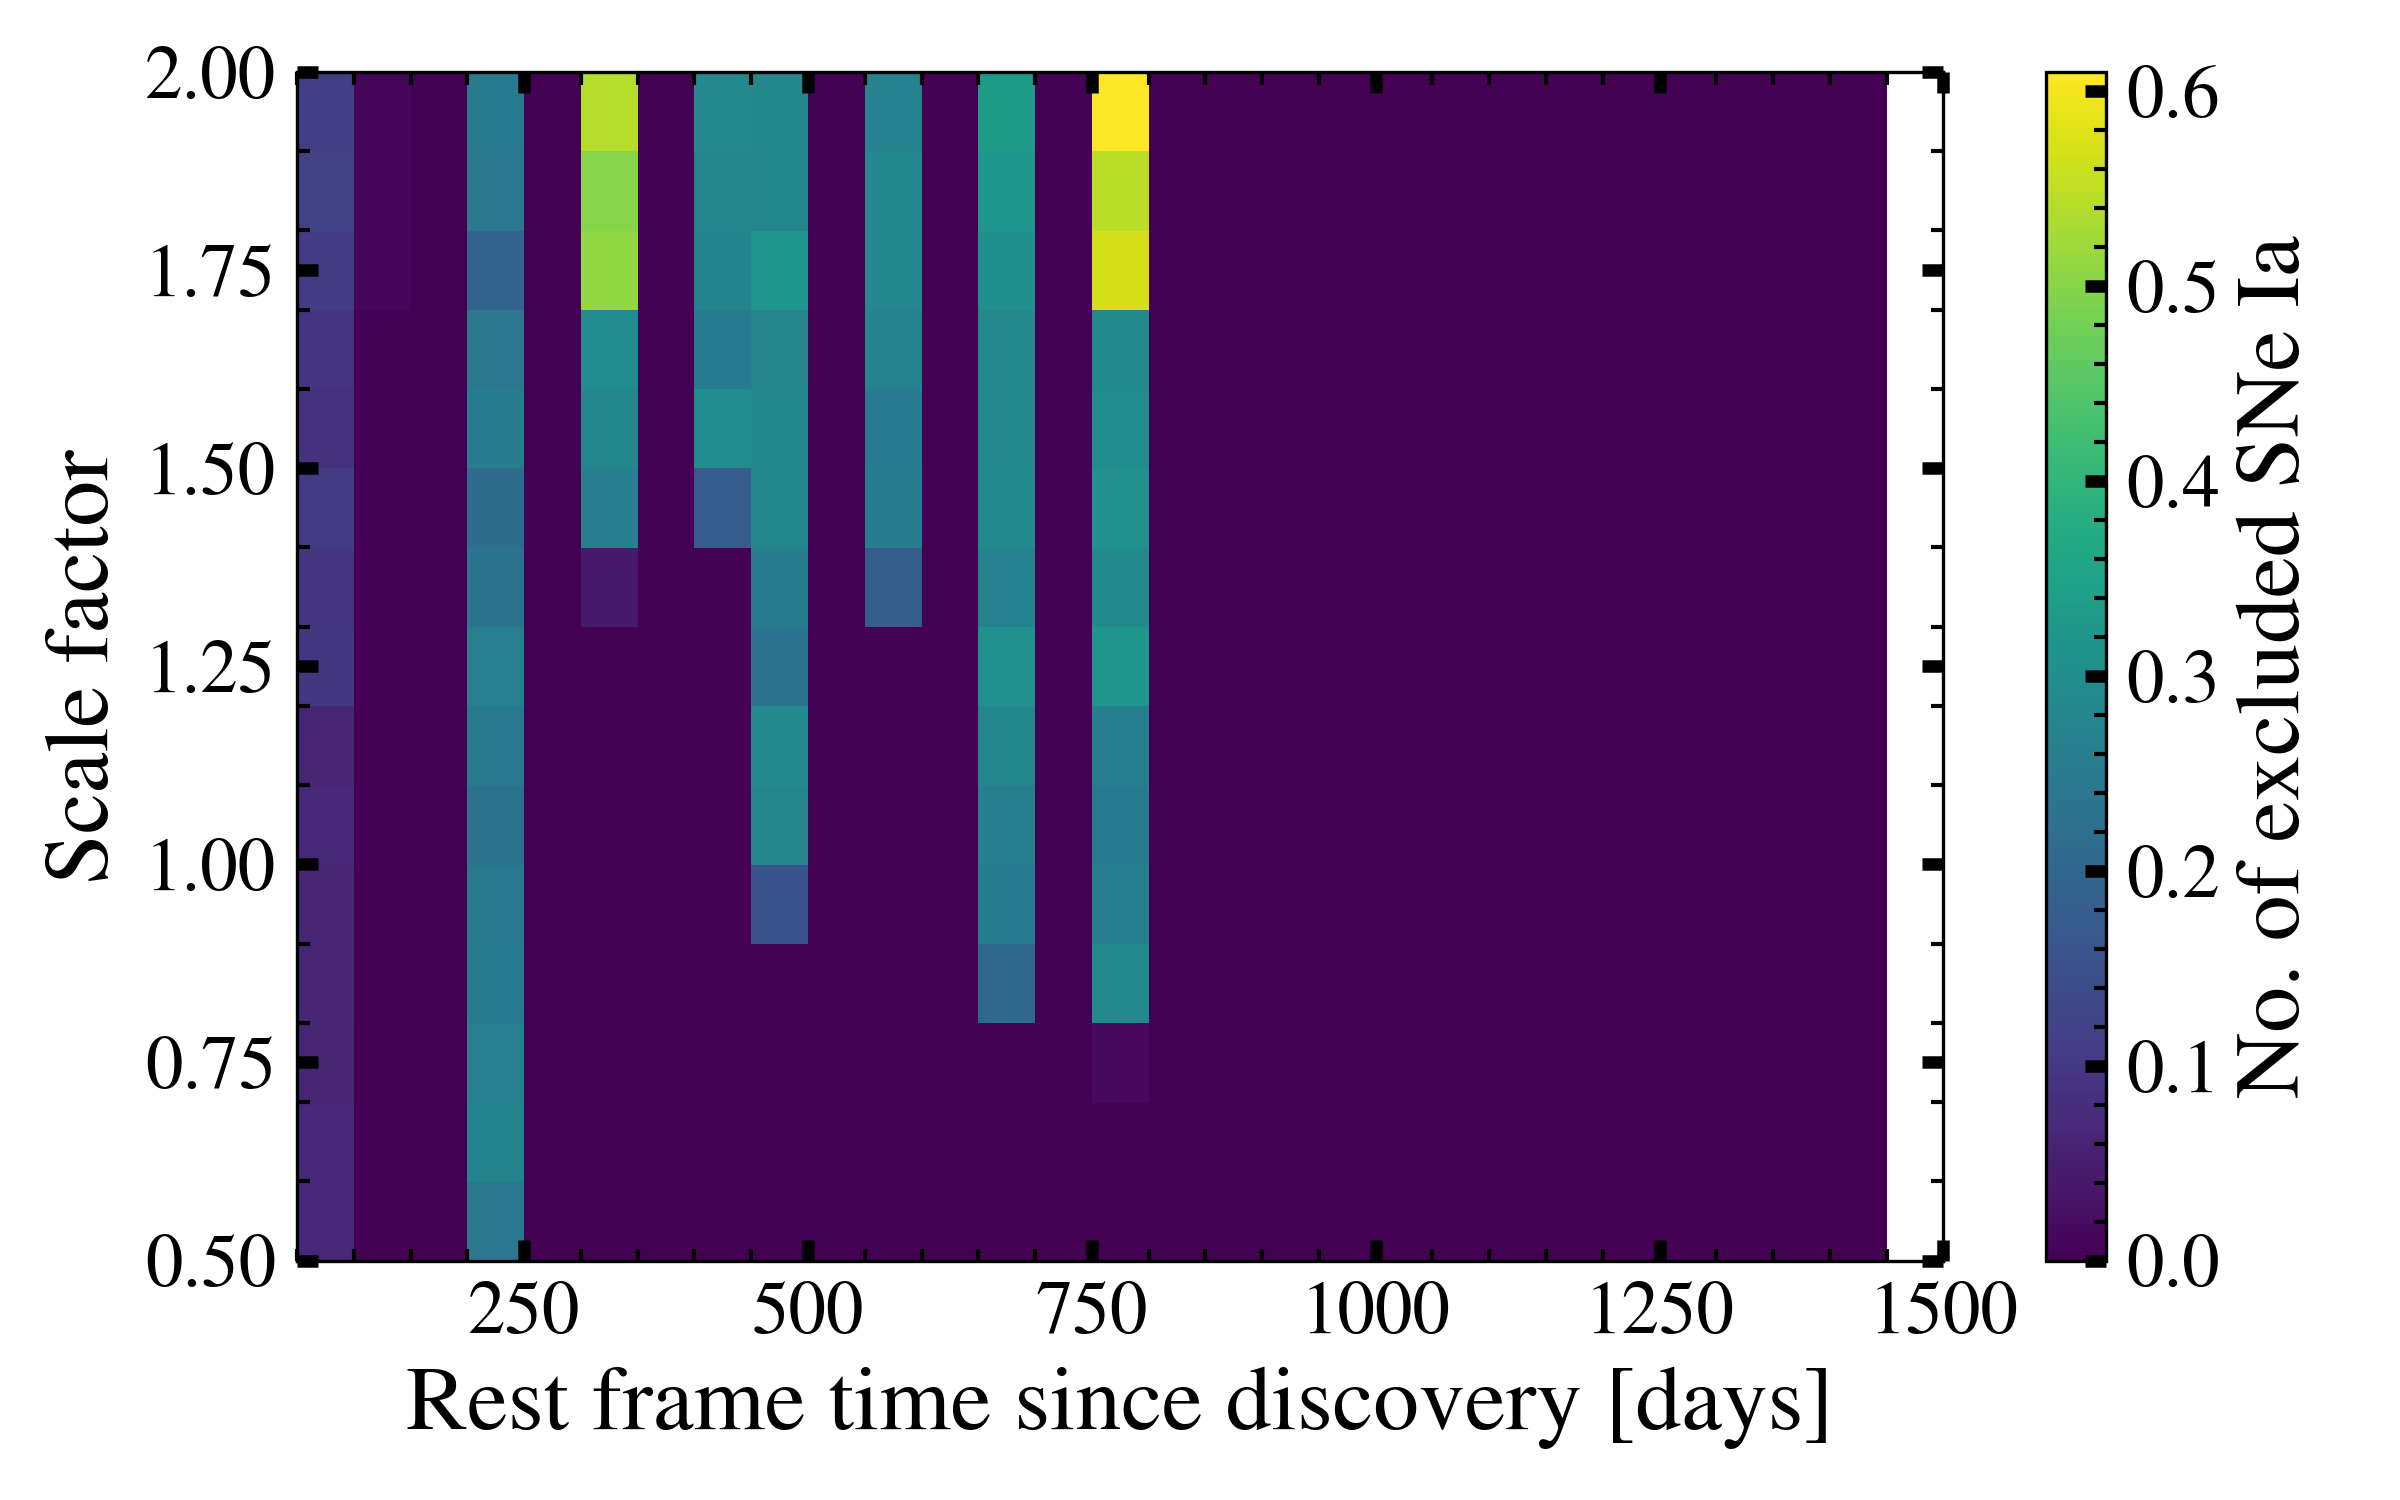
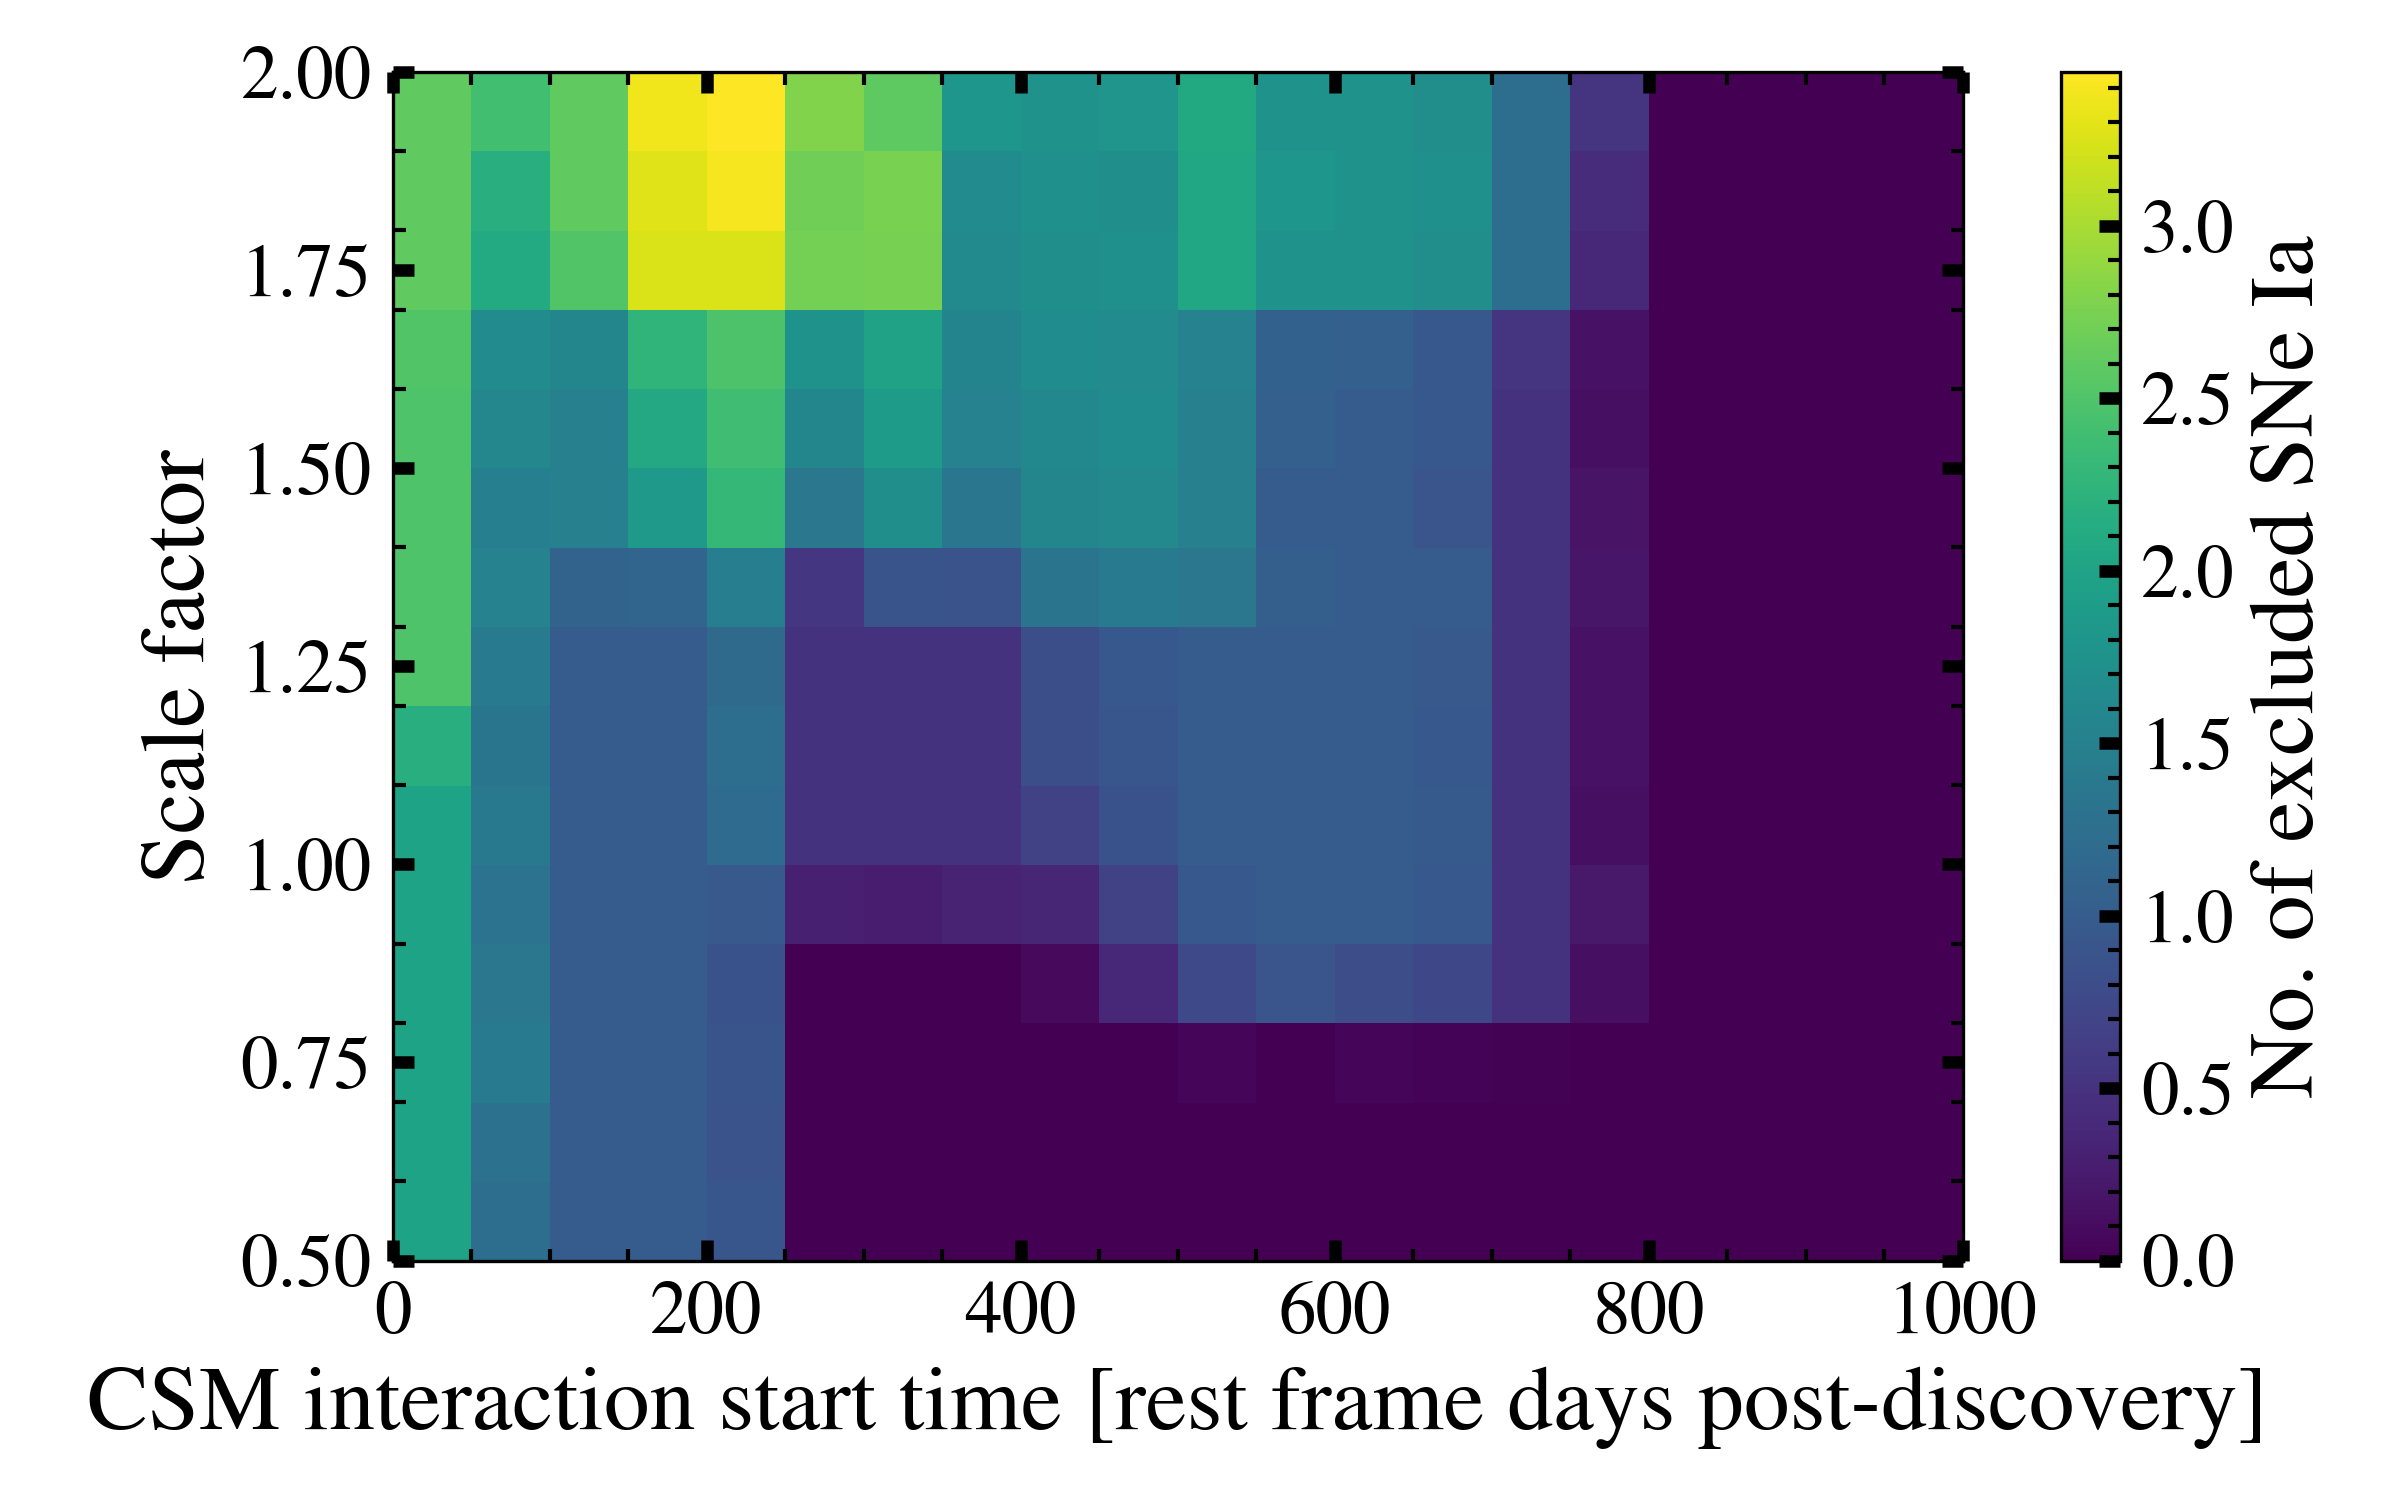
replace x axis with csm start time

diff --git a/plot.py b/plot.py
@@ -9,7 +9,7 @@ from pathos.multiprocessing import ProcessingPool as Pool
 from utils import *
 
 
-def main(iterations, t_min=RECOV_MIN, t_max=1500, scale_min=SCALE_MIN,
+def main(iterations, t_min=TSTART_MIN, t_max=TSTART_MAX, scale_min=SCALE_MIN,
         scale_max=SCALE_MAX, bin_width=50, bin_height=0.1, overwrite=False):
 
     # Bin edges
@@ -52,7 +52,7 @@ def plot(hist, show=False, output_file='recovery.png'):
     im = ax.imshow(hist, aspect='auto', origin='lower', extent=extent)
     ax.xaxis.set_minor_locator(MultipleLocator(bin_width))
     ax.yaxis.set_minor_locator(MultipleLocator(bin_height))
-    ax.set_xlabel('Rest frame time since discovery [days]')
+    ax.set_xlabel('CSM interaction start time [rest frame days post-discovery]')
     ax.set_ylabel('Scale factor')
     plt.colorbar(im, label='No. of excluded SNe Ia')
     fig.tight_layout()
@@ -130,10 +130,14 @@ class RecoveryData:
         self.all_times = join_list(data.all_times)
 
         # Join lists of recovered scales and all scales
-        count_scale = lambda x: [data.loc[i,'scale'] for i, l in enumerate(x) 
+        count_param = lambda x, y: [data.loc[i,y] for i, l in enumerate(x) 
                 for t in l if t != '']
-        self.recovered_scales = count_scale(data.recovered_times)
-        self.all_scales = count_scale(data.all_times)
+        self.recovered_scales = count_param(data.recovered_times, 'scale')
+        self.all_scales = count_param(data.all_times, 'scale')
+
+        # Join lists of CSM interaction start times
+        self.recovered_tstarts = count_param(data.recovered_times, 'tstart')
+        self.all_tstarts = count_param(data.all_times, 'tstart')
 
 
     def hist(self, x_edges, y_edges):
@@ -144,9 +148,9 @@ class RecoveryData:
         """
 
         # 2D histograms for recovered data and total data
-        recovered = np.histogram2d(self.recovered_times, self.recovered_scales, 
+        recovered = np.histogram2d(self.recovered_tstarts, self.recovered_scales, 
                 [x_edges, y_edges])[0]
-        total = np.histogram2d(self.all_times, self.all_scales, 
+        total = np.histogram2d(self.all_tstarts, self.all_scales, 
                 [x_edges, y_edges])[0]
 
         # Calculate recovery rate
@@ -167,4 +171,4 @@ if __name__ == '__main__':
     parser.add_argument('--overwrite', '-o', action='store_true', help='Overwrite histograms')
     args = parser.parse_args()
 
-    main(args.iterations, overwrite=args.overwrite)
+    main(args.iterations, t_min=0, overwrite=args.overwrite)

diff --git a/injection_recovery.py b/injection_recovery.py
@@ -14,8 +14,6 @@ from light_curve import LightCurve
 from supernova import Supernova
 
 # Default values
-TSTART_MIN = 0
-TSTART_MAX = 1000
 DECAY_RATE = 0.3 # CSM curve decay factor
 WIDTH = 250 # days, from PTF11kx
 SIGMA = [5, 3] # detection certainty

diff --git a/utils.py b/utils.py
@@ -4,6 +4,8 @@ import pandas as pd
 
 # Default values
 RECOV_MIN = 50 # minimum number of days after discovery to count as recovery
+TSTART_MIN = 0
+TSTART_MAX = 1000
 SCALE_MIN = 0.5
 SCALE_MAX = 2.
 
